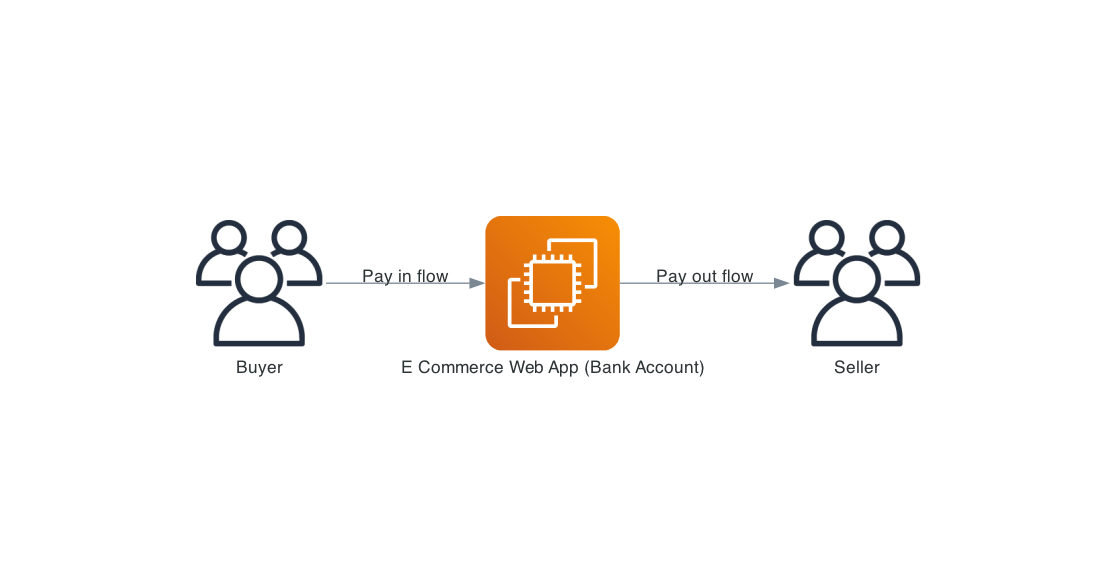
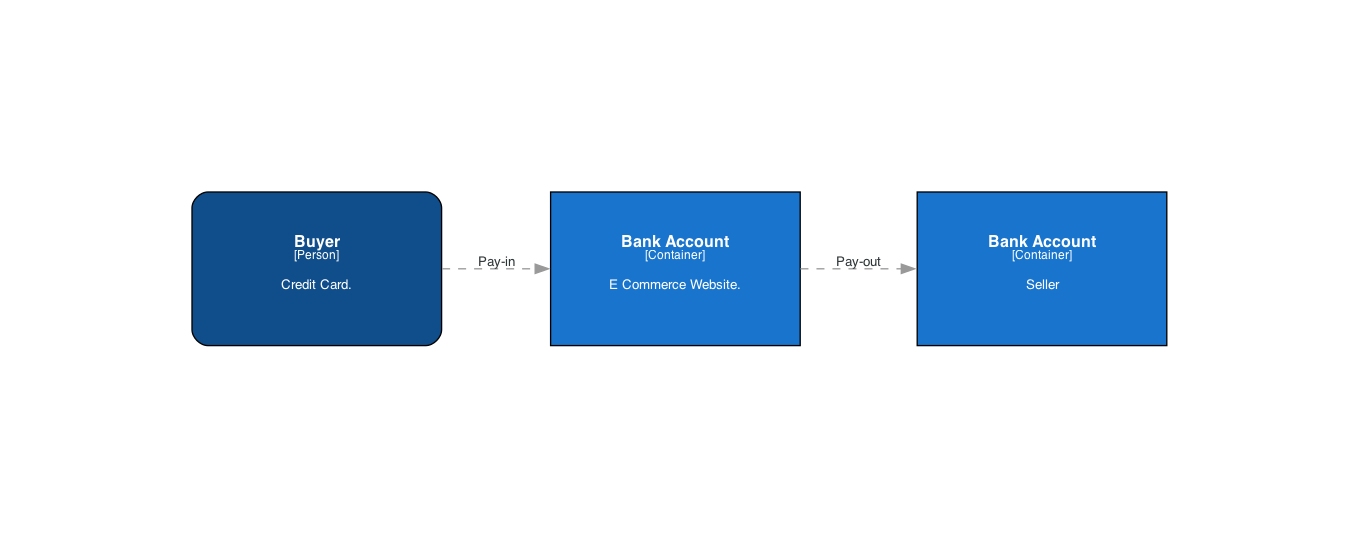
Your commit message here

Changed region(s): [[0.1219, 0.3569, 0.8835, 0.684]]

diff --git a/designPaymentSystem/highLevel_v2.py b/designPaymentSystem/highLevel_v2.py
@@ -1,0 +1,24 @@
+from diagrams import Diagram
+from diagrams.c4 import Person, Container, Database, System, SystemBoundary, Relationship
+
+graph_attr = {
+    "splines": "spline",
+}
+
+with Diagram("highlevel_v2", direction="LR", graph_attr=graph_attr):
+    customer = Person(
+        name="Buyer", description="Credit Card."
+    )
+
+    bank_account_webApp = Container(
+        name="Bank Account",
+        description="E Commerce Website.",
+    )
+
+    bank_account_seller = Container(
+        name="Bank Account",
+        description="Seller",
+    )
+
+    customer >> Relationship("Pay-in") >> bank_account_webApp
+    bank_account_webApp >> Relationship("Pay-out") >> bank_account_seller

diff --git a/README.md b/README.md
@@ -1,4 +1,8 @@
 # system-design
+git add . && git commit -am "Your commit message here" && git push
 
-git commit -am "Your commit message here" && git push
+    <meta charset="UTF-8">
+    <meta name="viewport" content="width=device-width, initial-scale=1.0">
+    <img src="https://raw.githubusercontent.com/jgreenrise/system-design/master/designAdClickAggregationSystem/high_level.png" alt="System Design Diagram">
+
 
